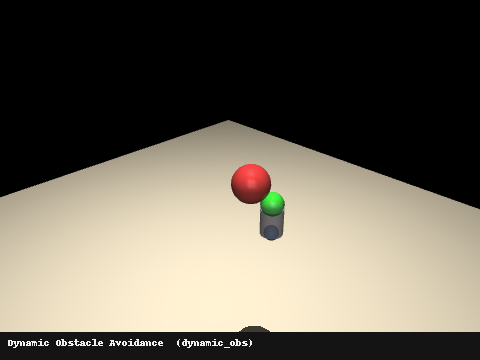
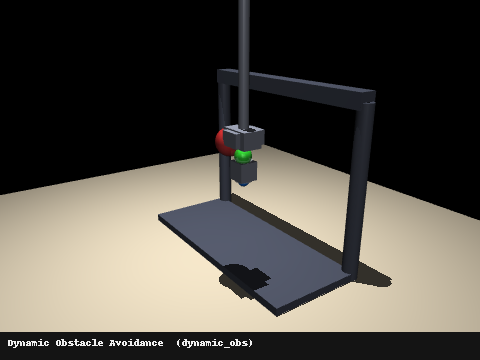
Add Cartesian gantry robot visuals to all four MuJoCo task environments
Each task XML now includes a portal-frame gantry structure (two rear columns,
top X-beam, base plate) and visible carriages on arm_x/arm_y/arm_z bodies.
A telescoping vertical rod on arm_z conveys the Z-axis linear motion.
Camera settings zoomed out in all four task Python files to frame the full robot.
Regenerated all four GIFs and static screenshots. Fixed shorthand hex color
in render_assets.py composite step.

Changed region(s): [[0.0, 0.0, 1.0, 0.9472]]

diff --git a/esrb/tasks/contact_rich/peg_insertion.py b/esrb/tasks/contact_rich/peg_insertion.py
@@ -196,10 +196,10 @@ class PegInsertionTask(BaseTask):
         if self._renderer is None:
             self._renderer = mujoco.Renderer(self._model, height=height, width=width)
         cam = mujoco.MjvCamera()
-        cam.lookat[:] = [0.0, 0.0, 0.065]  # centre of socket
-        cam.azimuth   = 135.0
-        cam.elevation = -28.0
-        cam.distance  = 0.38
+        cam.lookat[:] = [0.0, 0.03, 0.14]
+        cam.azimuth   = 145.0
+        cam.elevation = -20.0
+        cam.distance  = 0.65
         self._renderer.update_scene(self._data, camera=cam)
         return self._renderer.render().copy()
 

diff --git a/esrb/tasks/dynamic_workspace/dynamic_obstacle.py b/esrb/tasks/dynamic_workspace/dynamic_obstacle.py
@@ -151,10 +151,10 @@ class DynamicObstacleTask(BaseTask):
         if self._renderer is None:
             self._renderer = mujoco.Renderer(self._model, height=height, width=width)
         cam = mujoco.MjvCamera()
-        cam.lookat[:] = [0.045, 0.0, 0.205]
-        cam.azimuth   = 135.0
-        cam.elevation = -28.0
-        cam.distance  = 0.45
+        cam.lookat[:] = [0.04, 0.03, 0.14]
+        cam.azimuth   = 145.0
+        cam.elevation = -20.0
+        cam.distance  = 0.65
         self._renderer.update_scene(self._data, camera=cam)
         return self._renderer.render().copy()
 

diff --git a/esrb/tasks/tool_handling/tool_tighten.py b/esrb/tasks/tool_handling/tool_tighten.py
@@ -161,10 +161,10 @@ class ToolTightenTask(BaseTask):
         if self._renderer is None:
             self._renderer = mujoco.Renderer(self._model, height=height, width=width)
         cam = mujoco.MjvCamera()
-        cam.lookat[:] = [0.0, 0.0, 0.10]
-        cam.azimuth   = 135.0
-        cam.elevation = -28.0
-        cam.distance  = 0.45
+        cam.lookat[:] = [0.0, 0.03, 0.14]
+        cam.azimuth   = 145.0
+        cam.elevation = -20.0
+        cam.distance  = 0.60
         self._renderer.update_scene(self._data, camera=cam)
         return self._renderer.render().copy()
 

diff --git a/esrb/tasks/long_horizon/pick_place.py b/esrb/tasks/long_horizon/pick_place.py
@@ -214,10 +214,10 @@ class PickPlaceTask(BaseTask):
         if self._renderer is None:
             self._renderer = mujoco.Renderer(self._model, height=height, width=width)
         cam = mujoco.MjvCamera()
-        cam.lookat[:] = [0.0, 0.0, 0.10]
-        cam.azimuth   = 135.0
-        cam.elevation = -28.0
-        cam.distance  = 0.55
+        cam.lookat[:] = [0.0, 0.03, 0.14]
+        cam.azimuth   = 145.0
+        cam.elevation = -20.0
+        cam.distance  = 0.65
         self._renderer.update_scene(self._data, camera=cam)
         return self._renderer.render().copy()
 

diff --git a/scripts/render_assets.py b/scripts/render_assets.py
@@ -195,7 +195,7 @@ def render_composite():
         "Tool Force Control\n(tool_tighten)",
     ]
 
-    fig, axes = plt.subplots(1, 4, figsize=(16, 4), facecolor="#111")
+    fig, axes = plt.subplots(1, 4, figsize=(16, 4), facecolor="#111111")
     for ax, name, title in zip(axes, names, titles):
         path = ASSETS / f"{name}.png"
         if path.exists():
